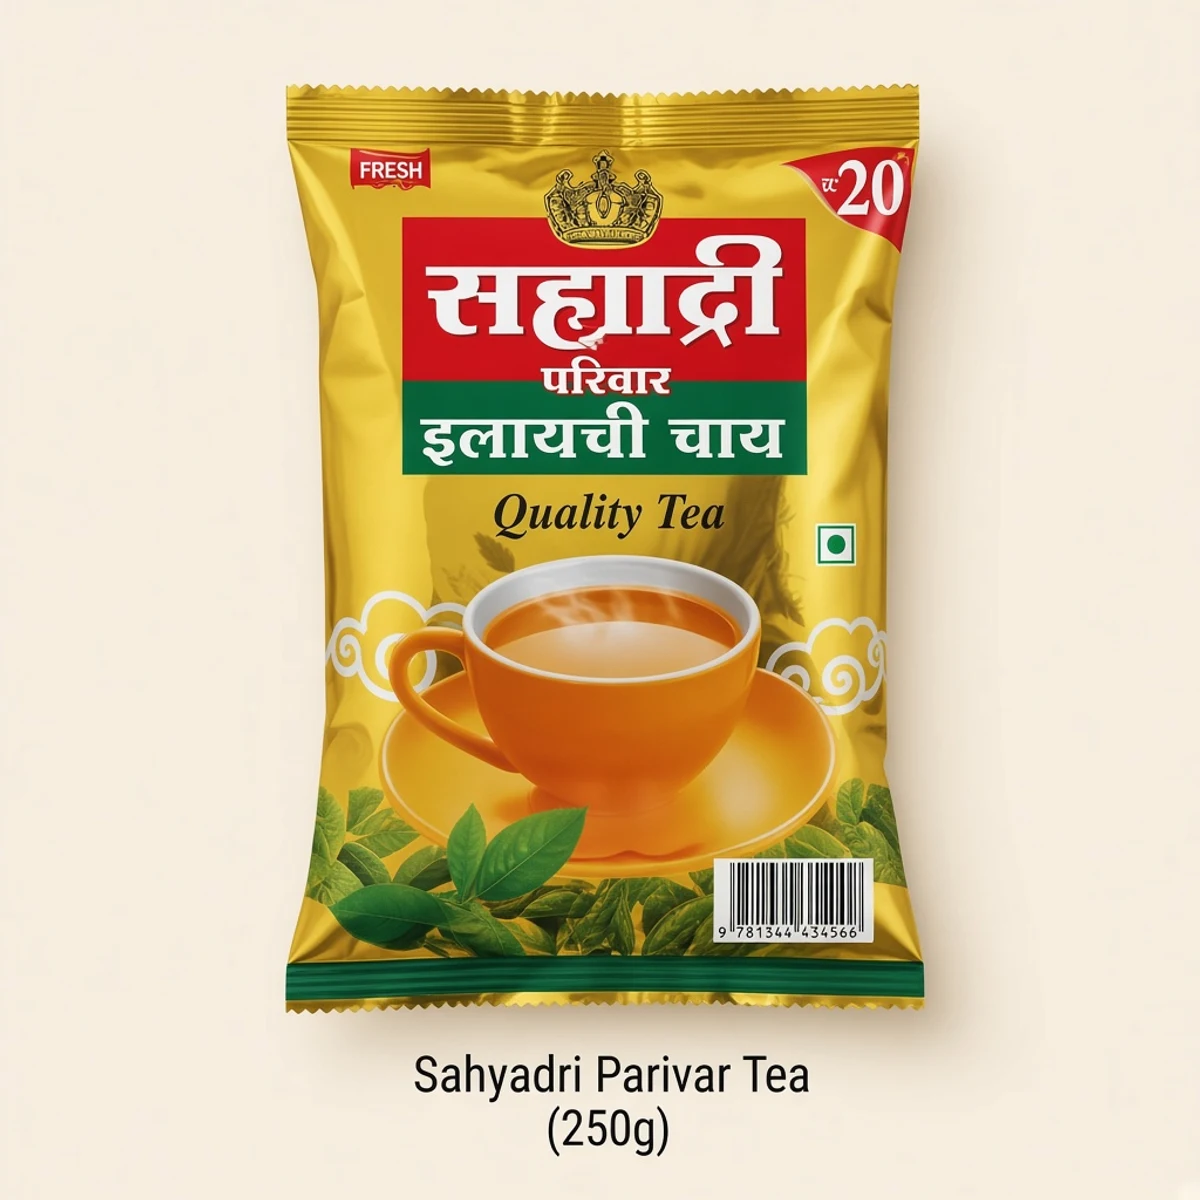
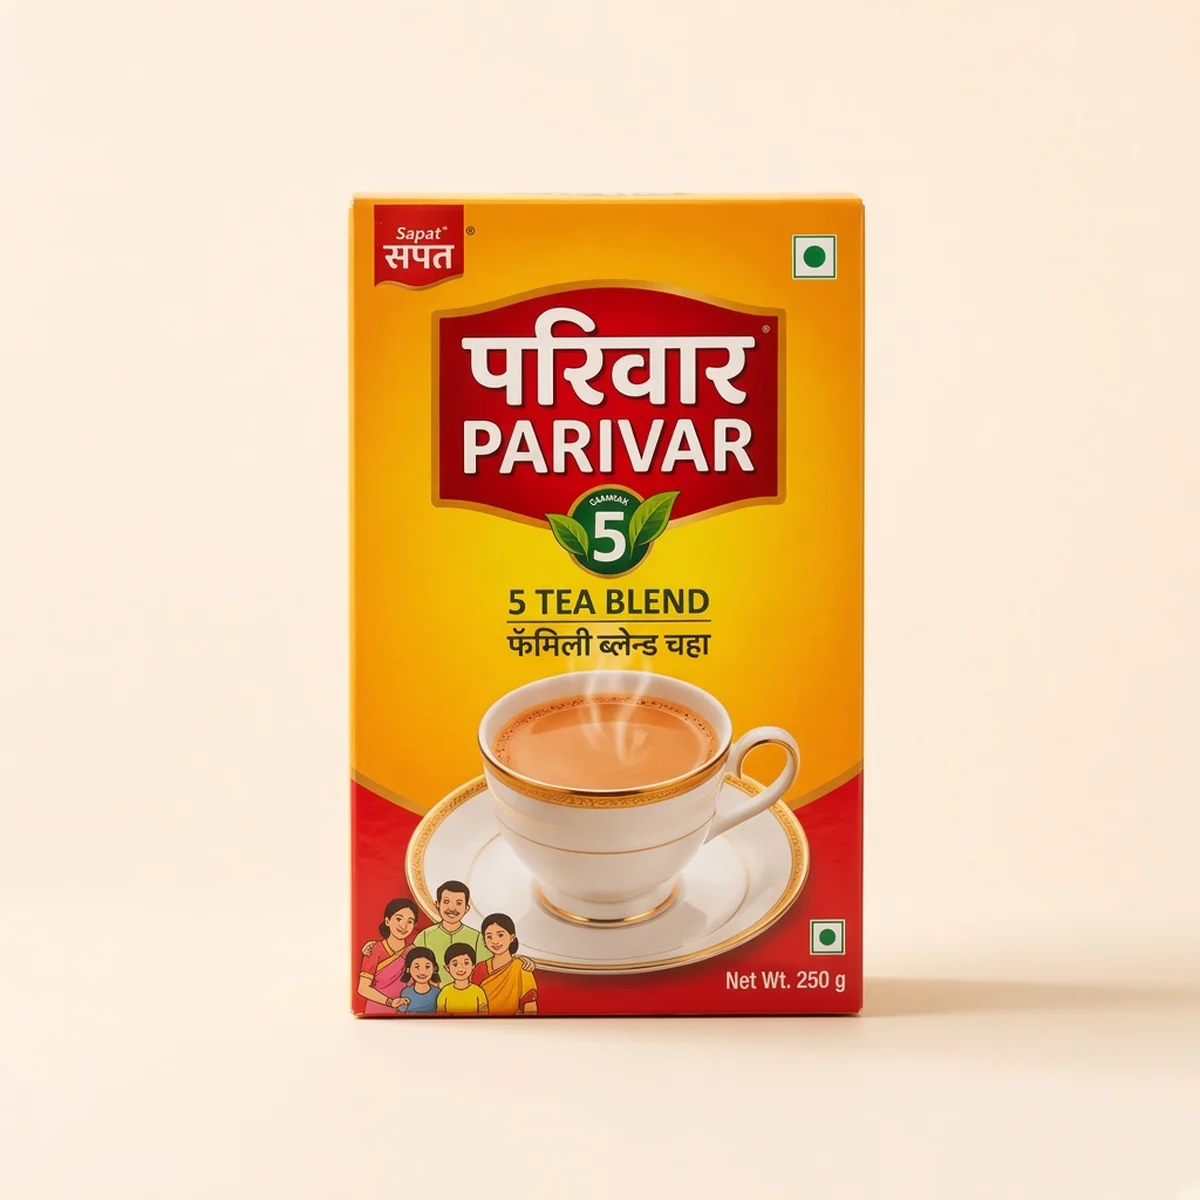
Refresh Parivar Tea with the Sapat 5 Tea Blend pack shot.
Replace the catalog image and listing details so the product matches the current retail carton.

diff --git a/data/newProducts.ts b/data/newProducts.ts
@@ -872,7 +872,7 @@ export const newProducts: CatalogProduct[] = [
   { id: "taj-tea", name: "Taj Tea", category: "Tea & Coffee", image: "/products/taj-tea.webp", badge: "Tea", grade: "Retail Pack", description: "Taj tea in retail packs.", specs: ["Packs: 100 gm, 500 gm", "Type: Black Tea", "Use: Beverage"], rating: 4.6 },
   { id: "lipton-green", name: "Lipton Green Tea", category: "Tea & Coffee", image: "/products/lipton-green.webp", badge: "Tea", grade: "Retail Pack", description: "Lipton green tea bags.", specs: ["Pack: 100 pcs", "Type: Green Tea", "Use: Beverage"], rating: 4.6 },
   { id: "taaza", name: "Tata Tea Taaza", category: "Tea & Coffee", image: "/products/taaza.webp", badge: "Tea", grade: "Retail Pack", description: "Tata Tea Taaza for daily chai — leaf and dust packs.", specs: ["Packs: 100 gm, 250 gm, 500 gm", "Type: Black Tea", "Use: Beverage"], rating: 4.5 },
-  { id: "parivar-tea", name: "Parivar Tea", category: "Tea & Coffee", image: "/products/parivar-tea.webp", badge: "Tea", grade: "Retail Pack", description: "Sahyadri Parivar tea pouches including Elaichi and Quality Tea packs.", specs: ["Packs: 250 gm Elaichi, 250 gm, 1 kg", "Type: Black / Elaichi Tea", "Brand: Sahyadri Parivar"], rating: 4.5 },
+  { id: "parivar-tea", name: "Parivar Tea", category: "Tea & Coffee", image: "/products/parivar-tea.webp", badge: "Tea", grade: "Retail Pack", description: "Sapat Parivar 5 Tea Blend family chai carton for daily brewing.", specs: ["Pack: 250 gm", "Type: 5 Tea Blend", "Brand: Sapat Parivar"], rating: 4.5 },
   { id: "sapat-tea", name: "Sapat Tea", category: "Tea & Coffee", image: "/products/sapat-tea.webp", badge: "Tea", grade: "Retail Pack", description: "Sapat Chaha — classic Maharashtrian tea from sachets to family kilo packs.", specs: ["Packs: 30 gm, 100 gm, 250 gm, 500 gm, 1 kg", "Type: Black Tea", "Use: Beverage"], rating: 4.6 },
 
   // ── Food ────────────────────────────────────────────────────
